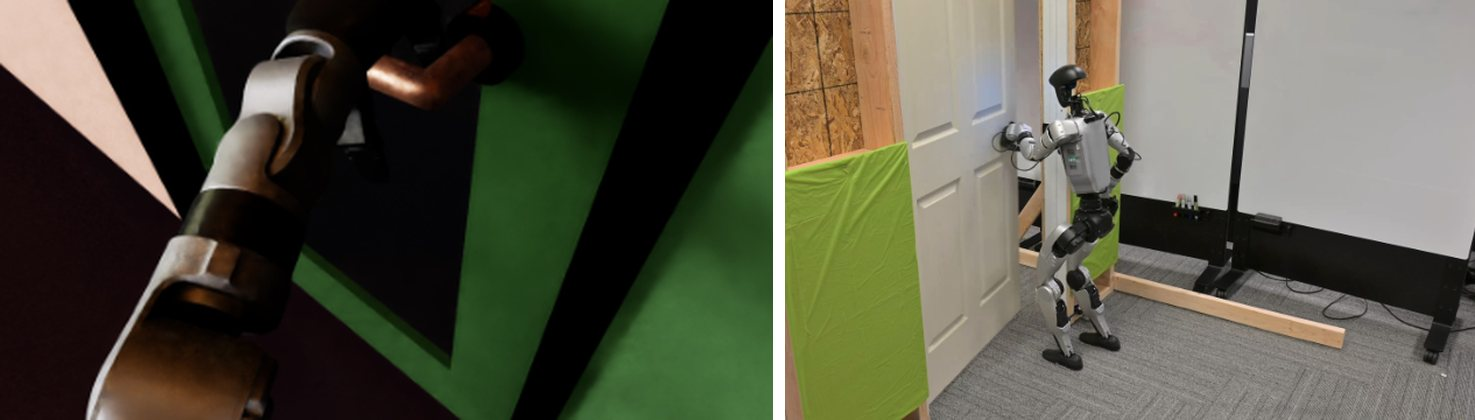
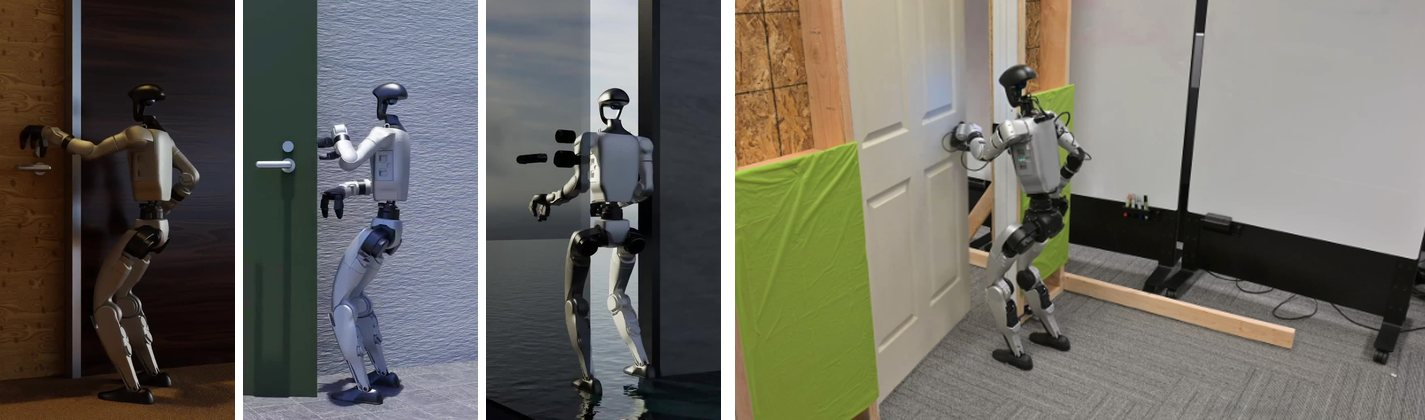
Blog: share-card images, DoorMan randomization image, post date
- Share cards: socialImage param (theme templates overridden) so the
  MolmoBot post uses a 1200x630 still instead of the 8.5 MB cover GIF,
  which is over X/LinkedIn's 5 MB limit; site-wide fallback card
  (blog/static/images/blog-card.jpg) for the home page and other pages.
- DoorMan image now shows three randomized sim scenes next to the real
  robot.
- Post dated 2026-10-20; paper/project links line under the title removed.

Claude-Session: https://claude.ai/code/session_014RrxokDq9ayjP8nwox9YRq

diff --git a/blog/layouts/partials/templates/opengraph.html b/blog/layouts/partials/templates/opengraph.html
@@ -1,0 +1,94 @@
+{{- /* Copied from themes/PaperMod/layouts/_partials/templates/opengraph.html.
+       One change: a post's socialImage param, when set, is used for the share
+       card instead of the cover (the cover GIF is too large for X/LinkedIn).
+       When updating the theme, diff against its copy. */ -}}
+<meta property="og:url" content="{{ .Permalink }}">
+
+{{- with or site.Title site.Params.title | plainify }}
+  <meta property="og:site_name" content="{{ . }}">
+{{- end }}
+
+{{- with or .Title site.Title site.Params.title | plainify }}
+  <meta property="og:title" content="{{ . }}">
+{{- end }}
+
+{{- with or .Description .Summary site.Params.description | plainify | htmlUnescape }}
+  <meta property="og:description" content="{{ trim . "\n\r\t " }}">
+{{- end }}
+
+{{- with or .Params.locale site.Language.LanguageCode }}
+  <meta property="og:locale" content="{{ replace . `-` `_` }}">
+{{- end }}
+
+{{- if .IsPage }}
+  <meta property="og:type" content="article">
+  {{- with .Section }}
+    <meta property="article:section" content="{{ . }}">
+  {{- end }}
+  {{- $ISO8601 := "2006-01-02T15:04:05-07:00" }}
+  {{- with .PublishDate }}
+    <meta property="article:published_time" {{ .Format $ISO8601 | printf "content=%q" | safeHTMLAttr }}>
+  {{- end }}
+  {{- with .Lastmod }}
+    <meta property="article:modified_time" {{ .Format $ISO8601 | printf "content=%q" | safeHTMLAttr }}>
+  {{- end }}
+  {{- range .GetTerms "tags" | first 6 }}
+    <meta property="article:tag" content="{{ .Page.Title | plainify }}">
+  {{- end }}
+{{- else }}
+  <meta property="og:type" content="website">
+{{- end }}
+
+{{- if .Params.socialImage -}}
+    <meta property="og:image" content="{{ .Params.socialImage | absURL }}">
+    <meta property="og:image:width" content="1200">
+    <meta property="og:image:height" content="630">
+{{- else if .Params.cover.image -}}
+  {{- if (ne .Params.cover.relative true) }}
+    <meta property="og:image" content="{{ .Params.cover.image | absURL }}">
+  {{- else}}
+    <meta property="og:image" content="{{ (path.Join .RelPermalink .Params.cover.image ) | absURL }}">
+  {{- end}}
+{{- else }}
+  {{- with partial "_funcs/get-page-images" . }}
+    {{- range . | first 6 }}
+      <meta property="og:image" content="{{ .Permalink }}">
+    {{- end }}
+  {{- end }}
+{{- end }}
+
+{{- with .Params.audio }}
+  {{- range . | first 6  }}
+    <meta property="og:audio" content="{{ . | absURL }}">
+  {{- end }}
+{{- end }}
+
+{{- with .Params.videos }}
+  {{- range . | first 6 }}
+    <meta property="og:video" content="{{ . | absURL }}">
+  {{- end }}
+{{- end }}
+
+{{- range .GetTerms "series" }}
+  {{- range .Pages | first 7 }}
+    {{- if ne $ . }}
+      <meta property="og:see_also" content="{{ .Permalink }}">
+    {{- end }}
+  {{- end }}
+{{- end }}
+
+{{- with site.Params.social }}
+  {{- if reflect.IsMap . }}
+    {{- with .facebook_app_id }}
+      <meta property="fb:app_id" content="{{ . }}">
+    {{- else }}
+      {{- with .facebook_admin }}
+        <meta property="fb:admins" content="{{ . }}">
+      {{- end }}
+    {{- end }}
+  {{- end }}
+{{- end }}
+
+{{- with (.Param "social.fediverse_creator") }}
+  <meta name="fediverse:creator" content="{{ . }}">
+{{- end }}

diff --git a/blog/layouts/partials/templates/twitter_cards.html b/blog/layouts/partials/templates/twitter_cards.html
@@ -1,0 +1,44 @@
+{{- /* Copied from themes/PaperMod/layouts/_partials/templates/twitter_cards.html.
+       One change: a post's socialImage param, when set, is used for the share
+       card instead of the cover (the cover GIF is too large for X/LinkedIn).
+       When updating the theme, diff against its copy. */ -}}
+{{- if .Params.socialImage -}}
+<meta name="twitter:card" content="summary_large_image">
+<meta name="twitter:image" content="{{ .Params.socialImage | absURL }}">
+{{- else if .Params.cover.image -}}
+<meta name="twitter:card" content="summary_large_image">
+{{- if (ne $.Params.cover.relative true) }}
+<meta name="twitter:image" content="{{ .Params.cover.image | absURL }}">
+{{- else }}
+<meta name="twitter:image" content="{{ (path.Join .RelPermalink .Params.cover.image ) | absURL }}">
+{{- end}}
+{{- else }}
+{{- $images := partial "templates/_funcs/get-page-images" . }}
+{{- with index $images 0 }}
+  <meta name="twitter:card" content="summary_large_image">
+  <meta name="twitter:image" content="{{ .Permalink }}">
+{{- else }}
+  <meta name="twitter:card" content="summary">
+{{- end }}
+{{- end }}
+
+{{- with or .Title site.Title site.Params.title | plainify }}
+  <meta name="twitter:title" content="{{ . }}">
+{{- end }}
+
+{{- with or .Description .Summary site.Params.description | plainify | htmlUnescape }}
+  <meta name="twitter:description" content="{{ trim . "\n\r\t " }}">
+{{- end }}
+
+{{- $twitterSite := "" }}
+{{- with site.Params.social }}
+  {{- if reflect.IsMap . }}
+    {{- with .twitter }}
+      {{- $content := . }}
+      {{- if not (strings.HasPrefix . "@") }}
+        {{- $content = printf "@%v" . }}
+      {{- end }}
+      <meta name="twitter:site" content="{{ $content }}">
+    {{- end }}
+  {{- end }}
+{{- end }}

diff --git a/blog/content/posts/molmobot-sim2real-manipulation.md b/blog/content/posts/molmobot-sim2real-manipulation.md
@@ -1,21 +1,21 @@
 ---
 title: "Sim2Real for Robot Manipulation is finally scaling"
-date: 2026-09-10
+date: 2026-10-20
 draft: false
 ShowToc: false
 description: 'Years ago, robot quadrupeds got their "randomize & learn" button which kickstarted sim2real. Now, robot manipulation finally has one too.'
 summary: 'Years ago, robot quadrupeds got their "randomize & learn" button which kickstarted sim2real. Now, robot manipulation finally has one too.'
+# Share-card image for X/LinkedIn: a 1200x630 still, since the cover GIF is over their 5 MB limit.
+socialImage: "/images/molmobot-sim2real-card.jpg"
 cover:
   image: "/images/molmobot-sim2real.gif"
   alt: "Manipulation policies trained in randomized simulation, running on real robots"
   relative: false
 ---
 
-*Paper: [MolmoB0T: Large-Scale Simulation Enables Zero-Shot Manipulation](https://arxiv.org/abs/2603.16861) · [Project page](https://allenai.github.io/MolmoBot/)*
+When I started my PhD in 2021, the state of embodied AI was roughly this: we had cool simulation demos, we had robot policies that could learn impressive behaviors in simulation, and we had very little that worked on an actual robot.
 
-When I started my PhD in 2021, the state of embodied AI was roughly this: we had beautiful simulations, we had robot policies that could learn impressive behaviors in sim, and we had very little that worked on an actual robot.
-
-Transfer from simulation to real hardware was sparse. You could get it to work if you constrained the action space enough, or learned on top of some pre-existing robot skills, and even then success rates were low. Plenty of serious people doubted whether simulation policies would ever transfer at all.
+Transfer from sim to real hardware was sparse. You could get it to work if you constrained the action space enough, or learned on top of some pre-existing robot skills, and even then success rates were low. Plenty of serious people doubted whether simulation policies would even transfer at all and argued that real-world data was the only relevant data.
 
 ## Robot locomotion and the "randomize & learn" button
 
@@ -125,7 +125,7 @@ For deformable and soft objects, and for more complex objects in general, it rem
 
 The open question for me is how far this scales: which kinds of variation matter most, and how many more we can add. There is still a lot left to vary in MolmoSpaces.
 
-## Other recent progress
+## Promising recent progress
 
 MolmoBot is not the only recent result pointing this way. AnyTask <a class="cite" href="#ref-10">[10]</a> from RAI automates task and data generation for sim-to-real policy learning, and SimVLA <a class="cite" href="#ref-11">[11]</a> trains a mobile-manipulation policy entirely in procedurally generated houses and runs it zero-shot in real homes.
 
@@ -141,9 +141,9 @@ Another route is large-scale reinforcement learning in simulation, distilled int
 
 <figure>
   <img src="/images/sim2real-doorman.jpg" loading="lazy"
-       alt="A simulated first-person camera view of a humanoid hand at a door handle, next to a real humanoid robot opening a door.">
+       alt="Three simulated humanoids opening doors with different wall, door and lighting randomization, next to a real humanoid opening a door.">
   <figcaption>
-    <p>DoorMan's simulated RGB view (left) and the real humanoid opening a door (right) <a class="cite" href="#ref-13">[13]</a>.</p>
+    <p>DoorMan in simulation with randomized doors, walls and lighting (left three) and opening a real door zero-shot (right) <a class="cite" href="#ref-13">[13]</a>.</p>
   </figcaption>
 </figure>
 
